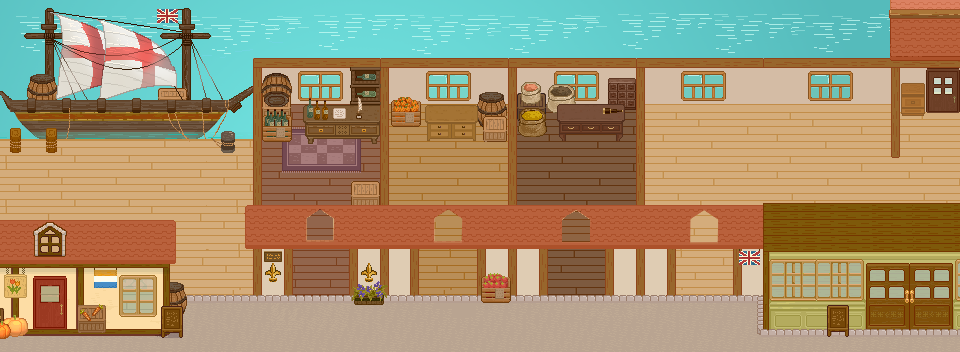
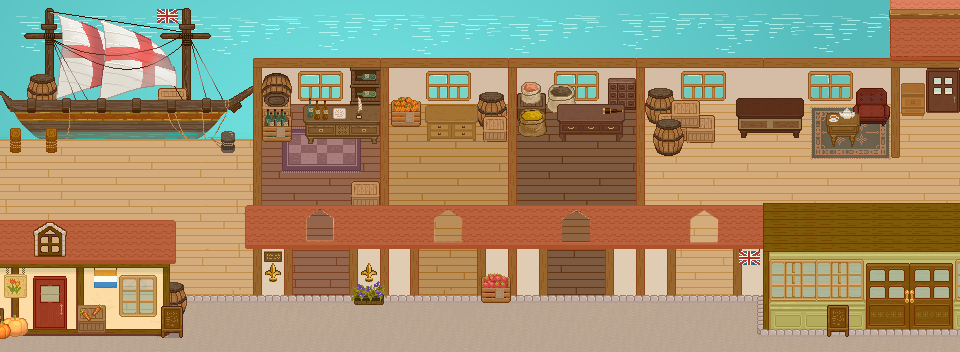
Add files via upload

Changed region(s): [[0.6562, 0.25, 0.9375, 0.4688]]

diff --git a/dialogue.js b/dialogue.js
@@ -12,21 +12,7 @@
    不用 export / import。
    ========================================================= */
 
-/* ---------- 港口＋商人 ---------- */
-const MERCHANTS={
-  Francis:{ nm:'弗朗西斯', e:'🧝♀️', job:'bake',   // 酒商
-    lines:['這支紅酒的年份，跟我們相遇那年一樣呢。','要試飲嗎？臉紅的話，我就當作是酒的功勞。','好酒和好對象一樣，都值得慢慢等。'],
-    goods:[ {kind:'seed', k:'strawberry', price:6}, {kind:'extra', k:'sugar', price:10, qty:10} ] },
-  Pedro:{ nm:'佩德羅', e:'🧔', job:'farm',          // 香料店
-    lines:['胡椒、肉桂、番紅花——你要的味道我都有。','喂，亞瑟。我攤子的招牌又被我釘歪了……幫個忙？','這罐香料很嗆，跟某人的嘴一樣。'],
-    goods:[ {kind:'extra', k:'olive_oil', price:10, qty:5}, {kind:'extra', k:'flour', price:20, qty:10} ] },
-  Antonio:{ nm:'安東尼奧', e:'👩🦰', job:'farm',    // 進口水果行
-    lines:['今天的橘子超甜！我先給你留了一籃。','水果要吃當季的，喜歡的人要當面說——我阿嬤教的。','亞瑟！過來過來，這顆你一定會喜歡！'],
-    goods:[ {kind:'seed', k:'strawberry', price:6}, {kind:'seed', k:'banana', price:6} ] },
-  Alfred:{ nm:'阿爾弗雷德', e:'🤵', job:'rich', era:19,
-    lines:['嘿，亞瑟！你最愛的傢伙帶著好貨回來啦！','這些全是我在外面闖出來的成績，快誇我！','見面禮不收可不行，這是英雄的心意！'],
-    goods:[ {kind:'extra', k:'sugar', price:4, qty:30} ] },
-};
+
 
 /* 阿爾弗雷德對話：只依成長階段，主角和他一來一往，選項加好感。（給 talkChild 用） */
 const CHILD_TOPICS={
@@ -279,41 +265,49 @@ const PARTNER_CONVOS={
         {t:'……我也是，一直都是',g:2,r:{who:'partner',mood:'love',t:'（愣了一下，笑開）值了。這輩子都值了。'}},
         {t:'下次少說我的事',g:1,r:{who:'partner',mood:'happy',t:'不行，說你是我最大的樂趣。'}},
         {t:'太肉麻，我去忙了',g:-3,r:{who:'partner',mood:'sad',t:'……嗯，去吧。是我一個人講得太起勁了。'}} ] },
-  ],
+  { lines:[
+      {who:'partner',mood:'happy',t:'（繫著圍裙從廚房探頭）欸亞瑟，嚐一口，鹹淡幫我抓一下。'},
+      {who:'me',mood:'neutral',t:'「你連衣櫃門都裝不回去，怎麼一進廚房就跟換了個人似的。」'},
+      {who:'partner',mood:'laugh',t:'哈，這叫術業有專攻嘛。鍋鏟我熟，螺絲我真的沒轍。'},
+      {who:'me',mood:'soft',t:'「……（嚐了一口）。哼，還行。比你修的抽屜靠譜多了。」'},
+      {who:'partner',mood:'love',t:'你這人喔，誇獎都要繞一大圈。我聽得懂啦，謝謝老婆——啊不是，謝謝亞瑟。'} ],
+      choices:[
+        {t:'……剛剛那個稱呼，重講',g:2,r:{who:'partner',mood:'shy',t:'欸、欸溜嘴而已！……不過你要是不討厭，我可以天天講。'}},
+        {t:'多煮點，我餓了',g:2,r:{who:'partner',mood:'happy',t:'遵命！我這輩子最不怕的就是餵飽你。'}},
+        {t:'圍裙歪了，笨手笨腳',g:-1,r:{who:'partner',mood:'neutral',t:'唉唷細節不要計較嘛……重點是好吃吧？對吧？'}} ] },
+      ],
   /* 安東尼奧：從曖昧的吸引開始，他在思考這段關係算什麼 */
-/* 安東尼奧：單純直腸子。搞不懂亞瑟明明不說喜歡、卻又願意親近他 */
   Antonio:[
     { lines:[
-      {who:'partner',mood:'happy',t:'亞瑟！我把攤上最甜的無花果帶回來了，你先吃。'},
-      {who:'me',mood:'neutral',t:'「……你自己賣的貨，老是往家裡搬，是想虧本嗎。」'},
-      {who:'partner',mood:'happy',t:'好東西就是要給喜歡的人吃啊，這不是理所當然嗎？'},
-      {who:'me',mood:'think',t:'「你、你每次都把那兩個字說得這麼順口……」'},
-      {who:'partner',mood:'neutral',t:'咦，喜歡就說喜歡，不然要說什麼？……倒是你，從來沒說過呢。'} ],
+      {who:'partner',mood:'happy',t:'（湊近，手撐在你身後的桌沿）今晚的月色，跟我們第一次那晚很像呢。'},
+      {who:'me',mood:'neutral',t:'「……離我三步遠。店還沒打烊。」'},
+      {who:'partner',mood:'love',t:'嘴上這麼說，你的視線可沒躲開喔？'},
+      {who:'me',mood:'think',t:'「那是因為你擋著路！讓、讓開啦。」'},
+      {who:'partner',mood:'neutral',t:'……吶，亞瑟。我們之間，除了這種時候，是不是也該多聊點別的？'} ],
       choices:[
-        {t:'（默默把無花果吃掉）',g:2,r:{who:'partner',mood:'love',t:'（盯著你看，慢慢笑開）吃掉了！嘿嘿，我就當你也是那個意思了！'}},
-        {t:'好吃。明天還要',g:2,r:{who:'partner',mood:'happy',t:'包在我身上！為了這句話，我明天把整棵樹買下來！'}},
-        {t:'東西歸東西，別想太多',g:-3,r:{who:'partner',mood:'sad',t:'……喔。東西歸東西啊。（把剩下的水果默默收了回去）'}} ] },
+        {t:'……想聊什麼，我聽著',g:2,r:{who:'partner',mood:'love',t:'（眼神軟了下來）看吧，其實你也想要「這之外」的東西，對吧。'}},
+        {t:'先打烊，之後再說',g:1,r:{who:'partner',mood:'happy',t:'好，那我等你。今晚哪裡都不去。'}},
+        {t:'我們本來就只是那種關係',g:-3,r:{who:'partner',mood:'sad',t:'……是嗎。哈，也對，是我自己想太多了。'}} ] },
     { lines:[
-      {who:'partner',mood:'neutral',t:'亞瑟，我想了一整晚，還是想不通，直接問你了。'},
-      {who:'me',mood:'neutral',t:'「……什麼事這麼嚴肅。」'},
-      {who:'partner',mood:'sad',t:'你平常躲我、嫌我煩、從來不說喜歡我。可是到了晚上，你又願意……那個。'},
-      {who:'me',mood:'think',t:'「你、你問這什麼問題！這種事哪有為什麼！」'},
-      {who:'partner',mood:'sad',t:'我很笨，不會猜。所以只想知道一件事——你心裡，到底有沒有我？'} ],
+      {who:'partner',mood:'neutral',t:'我昨晚沒什麼睡。一直在想——我們這樣，到底算什麼？'},
+      {who:'me',mood:'neutral',t:'「大半夜想這種問題，難怪你今天摘番茄摘得心不在焉。」'},
+      {who:'partner',mood:'sad',t:'別打岔。靠得這麼近、卻誰也不說破……以前覺得輕鬆，最近卻越來越不安。'},
+      {who:'me',mood:'think',t:'「……問我也沒用。這種事，我、我哪說得出口。」'},
+      {who:'partner',mood:'neutral',t:'那不用說。你只要告訴我——我留在這裡，你會不會覺得多餘？'} ],
       choices:[
-        {t:'沒有的話……早把你趕出去了',g:2,r:{who:'partner',mood:'love',t:'（呆了幾秒，眼睛慢慢亮起來）……原來如此！亞瑟的「有」，是用留下來表示的啊！'}},
-        {t:'（拉過他的手放在自己心口）',g:2,r:{who:'partner',mood:'love',t:'（感受著掌心的心跳，傻笑）好快……跟我的一樣快。嗯，這個答案我懂了。'}},
-        {t:'身體的事，別扯到心',g:-3,r:{who:'partner',mood:'sad',t:'……這樣啊。哈哈，我果然很笨，居然一直把兩件事當成一件事。'}} ] },
+        {t:'握住他的手：不多餘',g:2,r:{who:'partner',mood:'love',t:'（反手扣緊）夠了。這樣就夠了，剩下的我自己會懂。'}},
+        {t:'晚餐多做了你的份，自己想',g:2,r:{who:'partner',mood:'happy',t:'（噗哧笑出來）真是的……你這種彆扭的溫柔，最犯規了。'}},
+        {t:'想留就留，想走就走',g:-3,r:{who:'partner',mood:'sad',t:'……原來在你這裡，我是來去自由的啊。哈……'}} ] },
     { lines:[
-      {who:'partner',mood:'happy',t:'我阿嬤說過，水果不會騙人，甜就是甜，酸就是酸。'},
-      {who:'me',mood:'think',t:'「……突然講這個幹嘛。」'},
-      {who:'partner',mood:'neutral',t:'我也一樣，不會騙人。喜歡你，想對你好，想一直待在這裡——全部都是真的。'},
-      {who:'partner',mood:'happy',t:'可是你像我沒見過的水果，看起來硬邦邦，我咬不出來到底是什麼味道。'},
-      {who:'me',mood:'sad',t:'「把、把人比喻成水果……你是笨蛋嗎。」（耳根紅了）'} ],
+      {who:'partner',mood:'happy',t:'村裡的大嬸今天問我：「你和店主是什麼關係呀？」'},
+      {who:'me',mood:'think',t:'「你、你怎麼回答的？」'},
+      {who:'partner',mood:'happy',t:'我笑著打哈哈混過去了。畢竟——連我自己都不知道答案嘛。'},
+      {who:'me',mood:'sad',t:'「……哦。混過去就混過去，問我幹嘛。」'},
+      {who:'partner',mood:'neutral',t:'因為下次再被問，我想給一個能抬頭挺胸的答案。亞瑟，你呢？'} ],
       choices:[
-        {t:'……放到熟，就知道味道了',g:2,r:{who:'partner',mood:'love',t:'（用力點頭）好！我等！等水果我最有耐心了——不管幾年都等！'}},
-        {t:'笨蛋想這麼多會發燒',g:1,r:{who:'partner',mood:'happy',t:'哈哈也對！反正想不通的時候，看看你就覺得算了！'}},
-        {t:'酸的，死心吧',g:-3,r:{who:'partner',mood:'sad',t:'……酸的我也吞得下去。只是心會有點痛而已。'}} ] },
-  
+        {t:'就說……是我的人',g:2,r:{who:'partner',mood:'love',t:'（怔住，隨即大笑）哈哈！好，下次我就這麼說——一字不改！'}},
+        {t:'關那大嬸什麼事',g:1,r:{who:'partner',mood:'happy',t:'也是。反正你我心裡有數，就夠了……大概吧。'}},
+        {t:'隨便你怎麼說',g:-3,r:{who:'partner',mood:'sad',t:'「隨便」啊……我最不想聽到的，就是這兩個字。'}} ] },
   ],
 
   /* 阿爾弗雷德：長大回來的陽光大狗狗，黏人、孩子氣、以逗笑亞瑟為己任 */
@@ -563,25 +557,23 @@ const AFTERGLOW_BY={
     ],
   },
   /* 安東尼奧：熱度依舊，但開始捨不得只有熱度 */
-/* 安東尼奧：單純直白，餘韻是藏不住的傻笑和一點點不安 */
   Antonio:{
     kiss:[
-      '（愣了幾秒才反應過來）……剛剛，是你先靠過來的喔。我記住了！',
-      '親我的時候，你就一點都不彆扭了嘛。那……多親一點啊。',
-      '嘿嘿……（摸著嘴唇傻笑，什麼也沒說）',
+      '（舔了舔唇）嗯……這味道，會上癮的。',
+      '剛才那個吻，可不像「普通關係」會有的喔？',
+      '別急著走嘛，唇上的溫度，我還沒記完。',
     ],
     hug:[
-      '（抱著不放）再一下下就好……再一下下。',
-      '你主動抱我的話，我一整天都會傻笑，先跟你說好。',
-      '好暖……吶亞瑟，我們這樣，很好懂了吧？',
+      '真難得，你居然肯讓我抱這麼久。',
+      '你在我懷裡放鬆下來的那一瞬間……我差點說出不得了的話。',
+      '再靠近一點也沒關係喔？反正，都已經這麼近了。',
     ],
     spicy:[
-      '（撓撓頭傻笑）那個……早安。今天的你，也很好看。',
-      '昨晚你靠著我睡著了……我一動也不敢動，手麻到現在，嘿嘿。',
-      '我還是搞不太懂你的心……可是昨晚你叫我名字的聲音，很溫柔。',
-      '那種時候的你，是真的吧？……嗯，我就當是真的了喔。',
+      '（領口還有些凌亂）……昨晚的你，跟白天判若兩人呢。',
+      '噓——脖子那裡，記得遮好喔？',
+      '以前只覺得火熱，昨晚卻捨不得放開……我是不是沒救了。',
+      '天黑之後，再來「聊聊」吧。這次，聊心也可以。',
     ],
-
   },
   /* 阿爾弗雷德：大狗狗，開心到藏不住，得意又害羞 */
   Alfred:{
@@ -702,14 +694,14 @@ const PARTNER_WALK_LINES={
       '改天帶他出海一趟吧。男人之間，聊開了就好了。',
     ],
   },
- Antonio:{
-    base:['亞瑟，這顆橘子最甜，我剝好了。張嘴！','看到你，今天的煩惱就全沒了。我很簡單吧？','吶，今天的你……有比昨天多喜歡我一點嗎？'],
-    newlyMoved:['我把水果行最好的貨全搬來了！家裡是不是香噴噴的？','住進來第一晚開心得睡不著……結果早上睡過頭了，嘿嘿。','「回家」這兩個字，我在路上練習了一整路。亞瑟，我回家了。','雖然還搞不懂你的心，但我人先住進來了！'],
+  Antonio:{
+    base:['（經過時壓低聲音）今晚，別太早睡。','別皺眉。你一皺眉，我就想欺負你。','奇怪，明明都住在一起了，還是看不夠你。'],
+    newlyMoved:['行李搬進來的那一刻，突然覺得——這下是玩真的了。','從「不清不楚」變成「住在一起」…我們也算有進步吧？','早上醒來身邊有人，這種感覺，還真不賴。','我把香料全擺進你的廚房了。就當作我賴著不走的宣言。'],
     jealous:[
-      '阿爾弗雷德瞪我，我對他笑，他更生氣了……為什麼？',
-      '小孩子是不是都不喜歡我？可是我給的水果，他倒是收了。',
-      '我會加油的！總有一天他會願意叫我一聲的！',
-      '那孩子拚命護著你……嗯，跟我一樣喜歡你。這點我懂。',
+      '阿爾弗雷德老用防備的眼神看我…那孩子直覺挺準的嘛。',
+      '他大概覺得我配不上你吧。……有時候，連我也這麼覺得。',
+      '我會證明給那孩子看的——我不是來玩玩的。',
+      '他護著你的樣子，讓我想起以前的自己。',
     ],
   },
   Alfred:{
@@ -820,3 +812,88 @@ const DOG_LINES={
   },
 };
 
+/* ---------- 港口＋商人 ---------- */
+const MERCHANTS={
+  Francis:{ nm:'弗朗西斯', e:'🧝♀️', job:'bake',   // 酒商
+    lines:['這支紅酒的年份，跟我們相遇那年一樣呢。','要試飲嗎？臉紅的話，我就當作是酒的功勞。','好酒和好對象一樣，都值得慢慢等。'],
+    goods:[ {kind:'seed', k:'strawberry', price:6}, {kind:'extra', k:'sugar', price:10, qty:10} ] },
+  Pedro:{ nm:'佩德羅', e:'🧔', job:'farm',          // 香料店
+    lines:['胡椒、肉桂、番紅花……欸，我剛剛數到哪了？','喂，亞瑟。我攤子的招牌又被我釘歪了……幫個忙？','這罐咖哩粉，配羊肉絕了。改天我煮給你吃。'],
+    goods:[ {kind:'extra', k:'olive_oil', price:10, qty:5}, {kind:'extra', k:'flour', price:20, qty:10} ] },
+  Antonio:{ nm:'安東尼奧', e:'👩🦰', job:'farm',    // 進口水果行
+    lines:['今天的橘子超甜！我先給你留了一籃。','水果要吃當季的，喜歡的人要當面說——我阿嬤教的。','亞瑟！過來過來，這顆你一定會喜歡！'],
+    goods:[ {kind:'seed', k:'strawberry', price:6}, {kind:'seed', k:'banana', price:6} ] },
+  Alfred:{ nm:'阿爾弗雷德', e:'🤵', job:'rich', era:19,
+    lines:['嘿，亞瑟！你最愛的傢伙帶著好貨回來啦！','這些全是我在外面闖出來的成績，快誇我！','見面禮不收可不行，這是英雄的心意！'],
+    goods:[ {kind:'extra', k:'sugar', price:4, qty:30} ] },
+};
+
+/* 依親密度解鎖的進階對話：min=門檻，達到就加進聊天隨機池（原對話保留） */
+const PARTNER_CONVOS_TIER={
+  Francis:[
+    { min:40, lines:[
+      {who:'partner',mood:'happy',t:'今天你算完帳，居然主動幫我理了圍裙的結。……我可是記到心裡去了喔。'},
+      {who:'me',mood:'neutral',t:'「線頭翹起來看了礙眼而已，別想太多。」'},
+      {who:'partner',mood:'love',t:'好、好，是礙眼。那我以後天天把結打歪，讓你天天「礙眼」一下，如何？'},
+      {who:'me',mood:'think',t:'「你這人怎麼這麼難搞……」（嘴角卻沒壓住）'} ],
+      choices:[
+        {t:'幫他把結重打一次',g:2,r:{who:'partner',mood:'love',t:'（乖乖站好）……被你這樣照顧著，我還真會上癮的。'}},
+        {t:'哼一聲走開',g:1,r:{who:'partner',mood:'happy',t:'走那麼慢，是捨不得吧？我都看見囉。'}},
+        {t:'「煩死了。」',g:-3,r:{who:'partner',mood:'sad',t:'……抱歉，是我黏得太緊了嗎。'}} ] },
+
+    { min:50, lines:[
+      {who:'partner',mood:'happy',t:'早啊，親愛的。咖啡幫你溫在爐上了，兩塊糖，對吧？'},
+      {who:'me',mood:'neutral',t:'「……你連這個都記得。」'},
+      {who:'partner',mood:'love',t:'你身上的事，我可是比帳本記得還牢。畢竟——你比錢重要多了。'},
+      {who:'me',mood:'think',t:'「說得好像我很貴一樣。」（默默把咖啡端走）'} ],
+      choices:[
+        {t:'「……謝了。」（小聲）',g:2,r:{who:'partner',mood:'love',t:'這聲謝謝，比整座金山都值錢。'}},
+        {t:'順手幫他也倒一杯',g:2,r:{who:'partner',mood:'happy',t:'哎呀，太陽打西邊出來了？我要把今天記進日記。'}},
+        {t:'嫌太甜，倒掉',g:-3,r:{who:'partner',mood:'sad',t:'……下次我少放一塊。別倒掉嘛。'}} ] },
+
+    { min:60, lines:[
+      {who:'partner',mood:'happy',t:'你知道嗎，我以前總覺得，甜言蜜語說多了，人就不會離開。'},
+      {who:'me',mood:'neutral',t:'「所以你才這麼會講。」'},
+      {who:'partner',mood:'shy',t:'……可遇到你以後我才發現，我最想說的那句，反而卡在喉嚨裡，最難說出口。'},
+      {who:'me',mood:'think',t:'「……哪句？」（不自覺屏住呼吸）'},
+      {who:'partner',mood:'love',t:'（輕聲）等你哪天先說了，我再告訴你。'} ],
+      choices:[
+        {t:'「……我等你先說。」',g:2,r:{who:'partner',mood:'love',t:'（笑得很輕）好啊。那我們，就這樣慢慢耗著。'}},
+        {t:'紅著臉轉身',g:1,r:{who:'partner',mood:'happy',t:'那截泛紅的脖子，已經幫你回答了。'}},
+        {t:'「別自作多情。」',g:-3,r:{who:'partner',mood:'sad',t:'……是啊，是我自作多情。當我沒說。'}} ] },
+
+    { min:70, lines:[
+      {who:'partner',mood:'happy',t:'如果哪天這間店開得夠大，我想在二樓留一間房，朝東的，早上有光。'},
+      {who:'me',mood:'neutral',t:'「留來做什麼？」'},
+      {who:'partner',mood:'love',t:'給我們老了以後啊。你戴著老花眼鏡算帳，我在旁邊煩你——想想就美好。'},
+      {who:'me',mood:'think',t:'「誰要跟你一起變老……」（聲音卻軟了下來）'} ],
+      choices:[
+        {t:'「……朝東的房間，不錯。」',g:3,r:{who:'partner',mood:'love',t:'（眼睛亮起來）成交。這可是你親口答應的。'}},
+        {t:'「先把店顧好再說。」',g:1,r:{who:'partner',mood:'happy',t:'遵命。為了那間朝東的房，我今天格外賣力。'}},
+        {t:'「說得太遠了。」',g:-2,r:{who:'partner',mood:'sad',t:'……會嗎。我倒希望，能跟你走到那麼遠。'}} ] },
+
+    { min:80, lines:[
+      {who:'partner',mood:'neutral',t:'（難得沒鬧你，只是安靜地坐在你身邊）'},
+      {who:'me',mood:'neutral',t:'「今天怎麼這麼安分。」'},
+      {who:'partner',mood:'love',t:'有些時候，不必說話也很好。就這樣，聽你翻帳本的聲音，我就很滿足了。'},
+      {who:'me',mood:'think',t:'「……你這樣我反而不習慣。」（卻沒有把他推開）'} ],
+      choices:[
+        {t:'把肩膀往他那邊靠了靠',g:3,r:{who:'partner',mood:'love',t:'（沒出聲，只是輕輕扶穩了你）……這一刻，我誰都不換。'}},
+        {t:'繼續算帳，由他靠著',g:2,r:{who:'partner',mood:'happy',t:'嗯，就這樣。哪也不去。'}},
+        {t:'「別煩，去做事。」',g:-2,r:{who:'partner',mood:'sad',t:'……好。是我打擾你了。'}} ] },
+
+    { min:90, lines:[
+      {who:'partner',mood:'love',t:'亞瑟。今天不逗你了，我想正經說一句。'},
+      {who:'me',mood:'neutral',t:'「……你正經起來反而嚇人。」'},
+      {who:'partner',mood:'love',t:'這輩子油腔滑調哄過不少人，可只有在你面前，我說的每個字都是真的。'},
+      {who:'me',mood:'think',t:'「……我知道。」（低下頭）「……我一直都知道。」'},
+      {who:'partner',mood:'happy',t:'（怔了一下，然後笑得像個孩子）……看吧，我就說，你比誰都懂我。'} ],
+      choices:[
+        {t:'「留下來。別走。」',g:3,r:{who:'partner',mood:'love',t:'（握緊你的手）走？我這輩子，哪都不去了。'}},
+        {t:'難得沒頂嘴，只是點頭',g:3,r:{who:'partner',mood:'love',t:'這個點頭，我收下了。一輩子的份，都收下了。'}},
+        {t:'「……肉麻。」（別開臉，耳朵通紅）',g:1,r:{who:'partner',mood:'happy',t:'是是是，肉麻。可你紅透的耳朵，比我還誠實呢。'}} ] },
+  ],
+  /* 其他伴侶照上面格式往下加，例如：
+  Pedro:[ { min:40, lines:[...], choices:[...] }, ... ],
+  */
+};